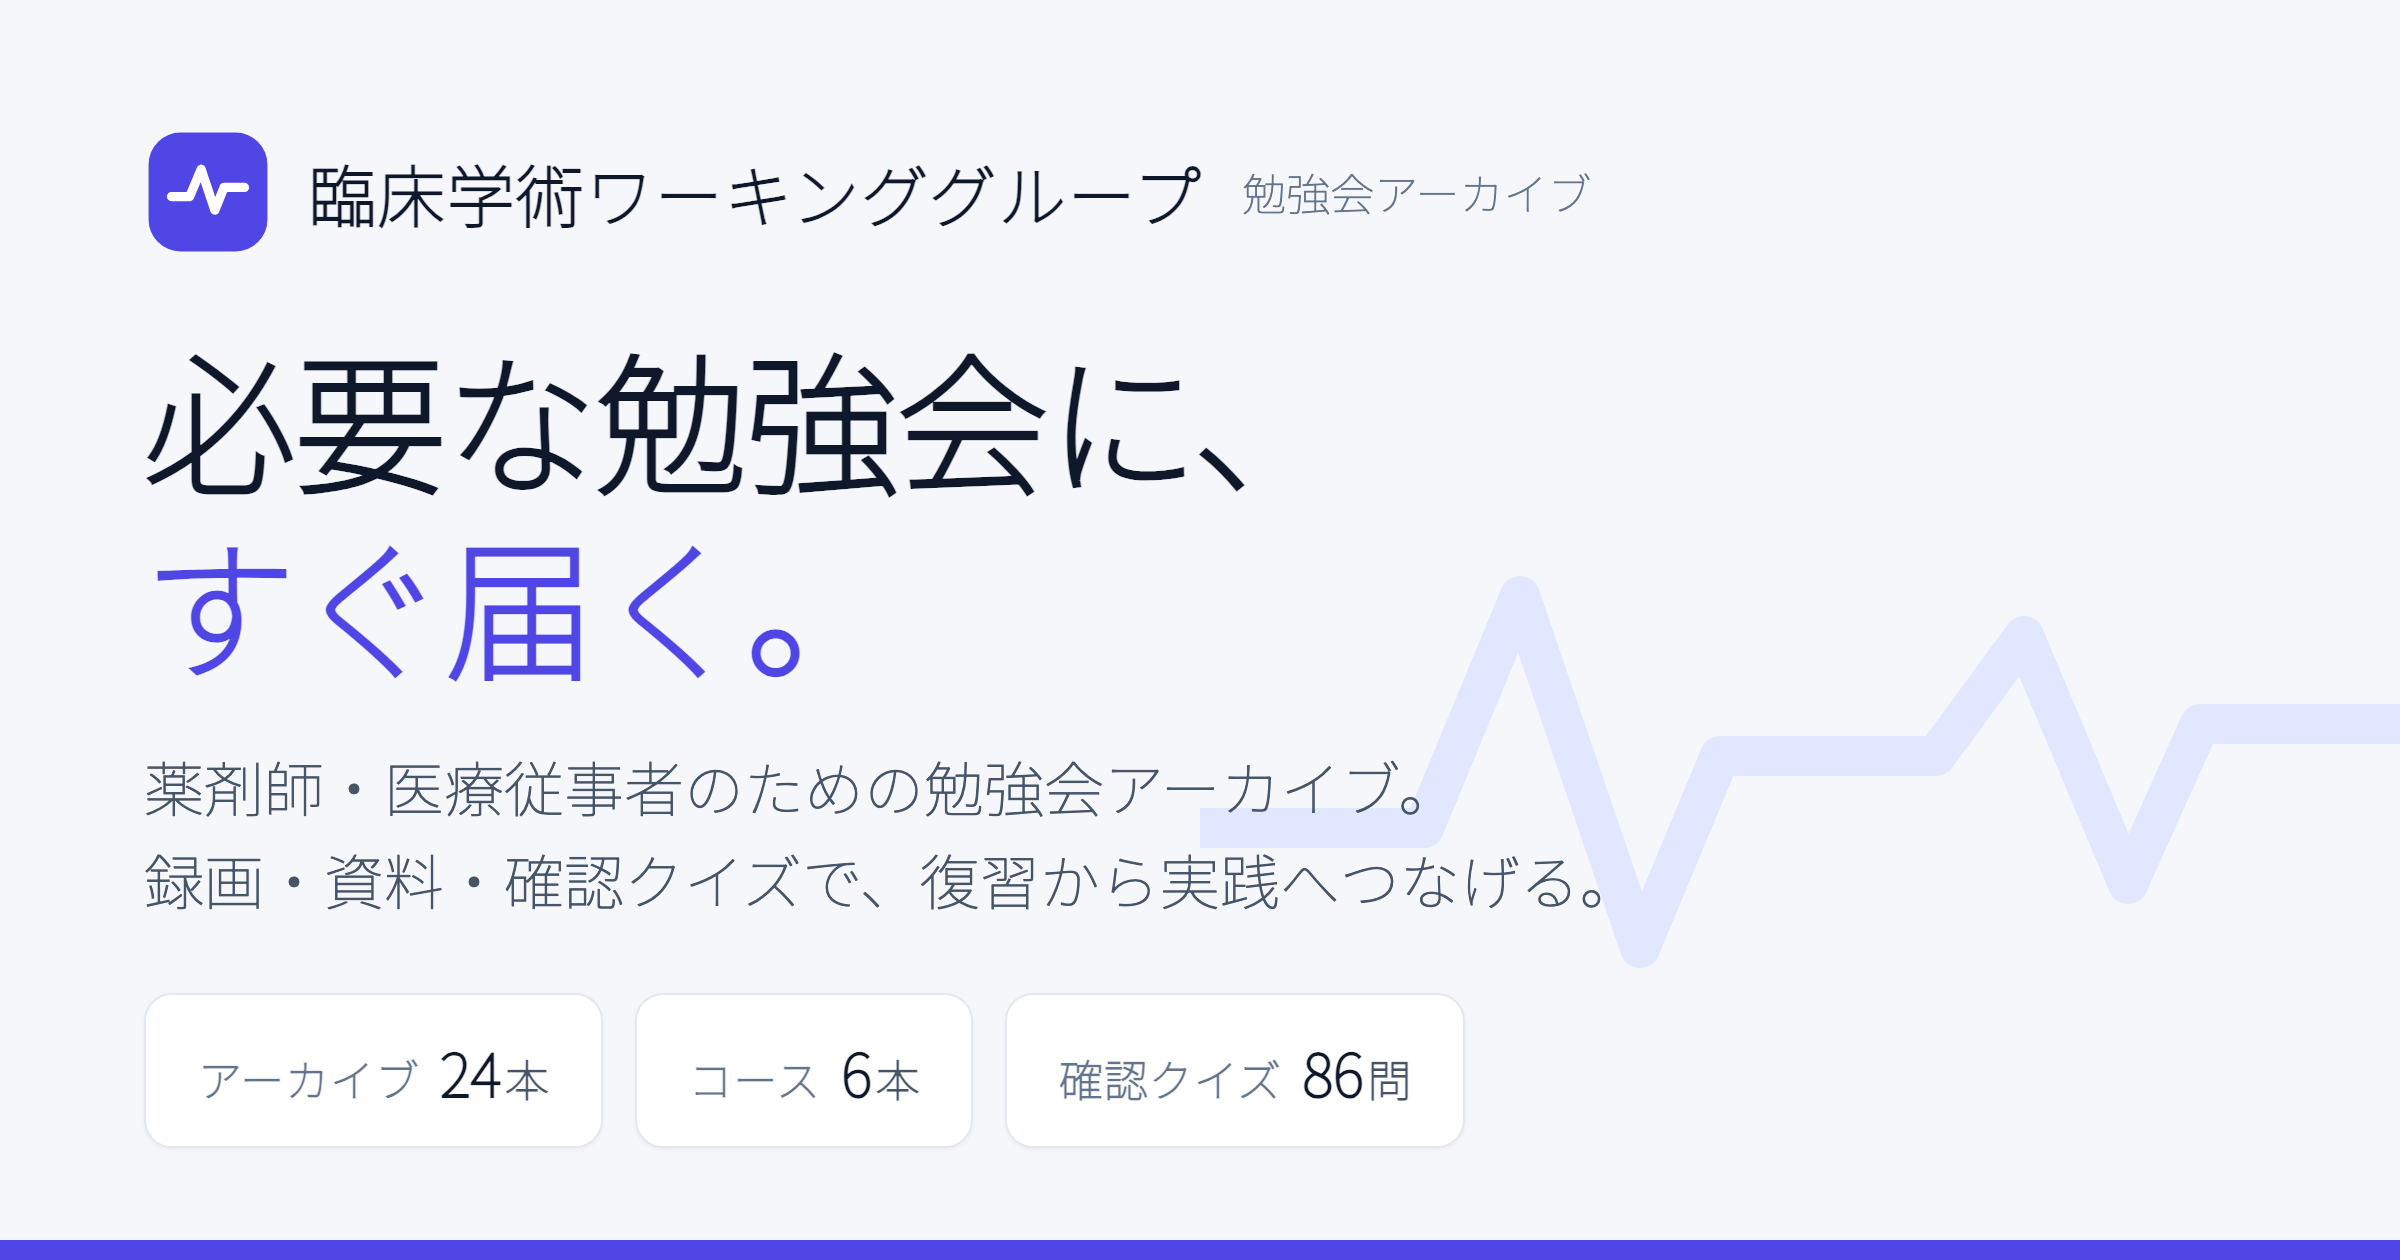
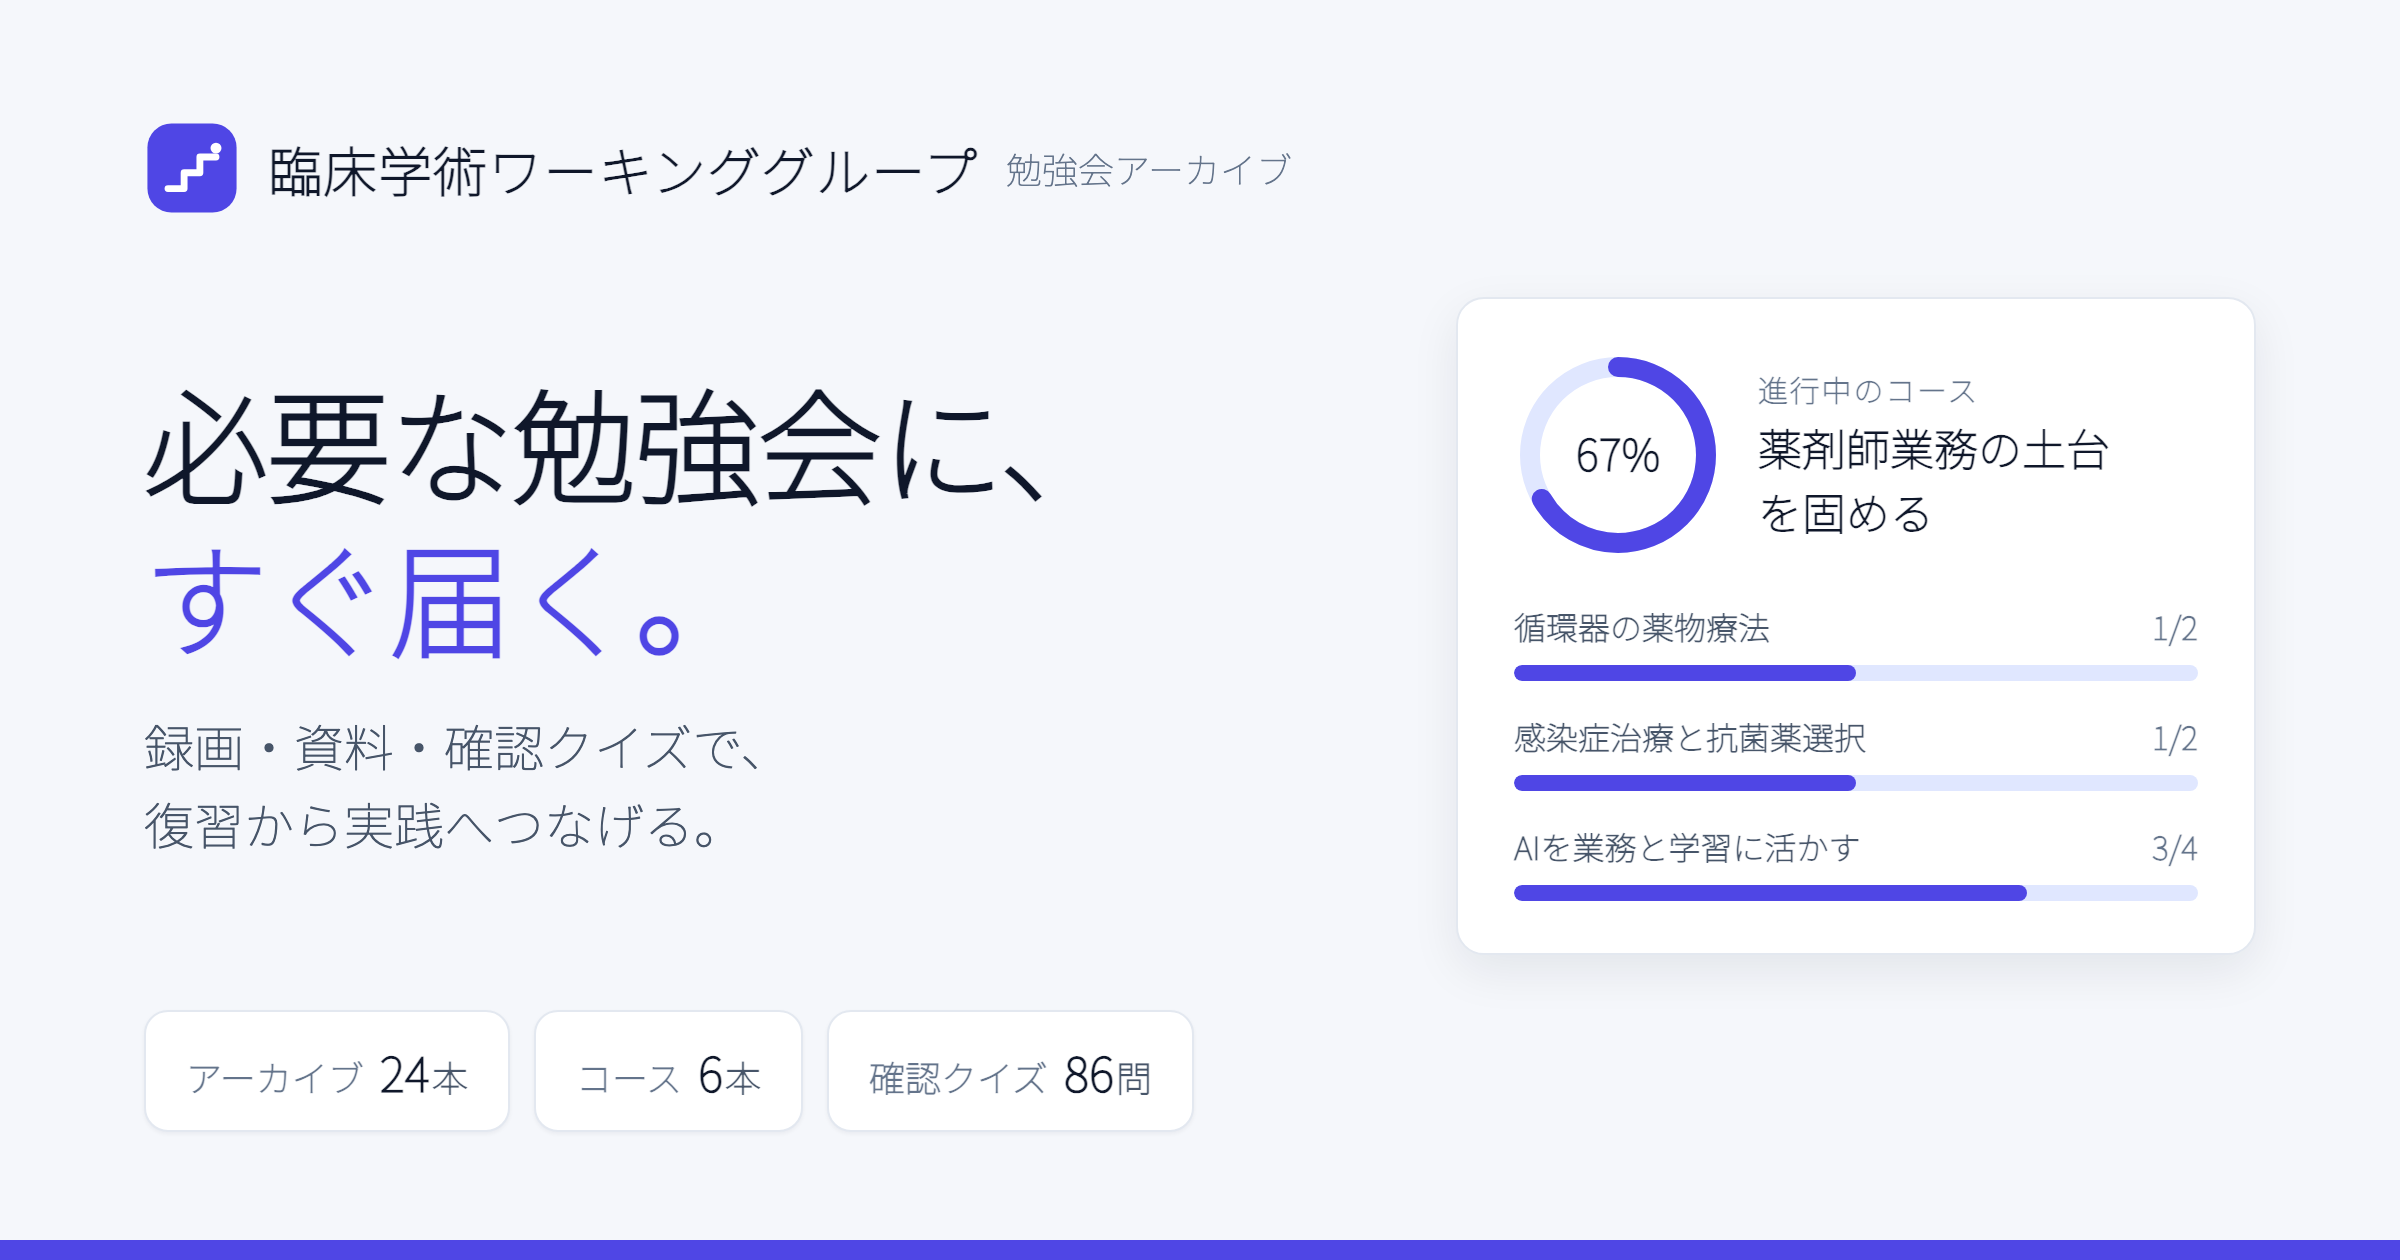
Rebuild the OGP art on the course-progress dashboard motif

diff --git a/design-system/assets/og-export.html b/design-system/assets/og-export.html
@@ -1,10 +1,10 @@
 <!-- @dsCard group="Assets" name="OGP書き出し原稿" subtitle="1200x630 フルブリード (ogp.png生成用)" width="1200" height="630" -->
 <!--
   使い方 (AI向け):
-  - ogp.png を再生成するための実寸原稿。templates/social.html のOGP型のフルブリード版 (角丸・影・外枠なし)。
+  - ogp.png を再生成するための実寸原稿。左に代表コピーとサイト全体数値、右にコース進捗ダッシュボードのモチーフ。
   - 書き出し: リポジトリルートで design-system/README.md「OGP画像の書き出し」のコマンドを実行する。
-  - 見出しはブランド代表コピー、下段はサイト全体数値のスタットチップ。
-    人名・絵文字・感嘆符・誇大表現を入れない。パルス波形マーク (foundations/brand.html が正) を改変せず使う。
+  - 人名・絵文字・感嘆符・誇大表現を入れない。学びの階段マーク (foundations/brand.html が正) を改変せず使う。
+  - 右カードのコース名・進捗値は実データ (mockups/DESIGN_BRIEF.md) 由来。変更時も実在データから採る。
 -->
 <!DOCTYPE html>
 <html lang="ja">
@@ -24,71 +24,89 @@
   body { font-family: var(--font-sans); }
   .og {
     position: relative; width: 1200px; height: 630px; overflow: hidden;
-    display: flex; flex-direction: column; justify-content: space-between;
-    padding: 64px 72px 56px; background: var(--bg);
+    display: flex; align-items: stretch; gap: 48px;
+    padding: 60px 72px 64px; background: var(--bg);
   }
-  /* 装飾: 右下の大きなパルス波形 (トラック色) */
-  .og-wave {
-    position: absolute; right: -40px; bottom: 88px; width: 640px; height: 320px;
-  }
-  .og-brand { position: relative; display: flex; align-items: center; gap: 18px; }
+  .og-left { display: flex; flex-direction: column; justify-content: space-between; flex: 1 1 auto; }
+  .og-brand { display: flex; align-items: center; gap: 14px; }
   .og-brand svg { display: block; }
-  .og-brand-name { color: var(--ink); font-size: 34px; font-weight: 700; letter-spacing: 0.02em; }
-  .og-brand-sub { margin-left: 2px; color: var(--muted); font-size: 22px; font-weight: 500; }
-  .og-main { position: relative; }
-  .og-title {
-    color: var(--ink); font-size: 76px; font-weight: 700;
-    letter-spacing: -0.01em; line-height: 1.22;
-  }
+  .og-brand-name { color: var(--ink); font-size: 27px; font-weight: 700; letter-spacing: 0.02em; }
+  .og-brand-sub { color: var(--muted); font-size: 18px; font-weight: 500; }
+  .og-title { color: var(--ink); font-size: 62px; font-weight: 700; letter-spacing: -0.01em; line-height: 1.24; }
   .og-title em { font-style: normal; color: var(--primary); }
-  .og-lead {
-    margin-top: 22px;
-    color: var(--ink-2); font-size: 30px; font-weight: 500; line-height: 1.55;
-  }
-  .og-foot { position: relative; display: flex; align-items: center; gap: 16px; }
+  .og-lead { margin-top: 18px; color: var(--ink-2); font-size: 25px; font-weight: 500; line-height: 1.55; }
+  .og-foot { display: flex; align-items: center; gap: 12px; }
   .og-stat {
-    display: inline-flex; align-items: baseline; gap: 10px;
-    padding: 16px 26px; border: 1px solid var(--border); border-radius: 14px;
-    background: var(--surface); box-shadow: 0 1px 2px rgba(16, 24, 40, 0.05);
+    display: inline-flex; align-items: baseline; gap: 8px; padding: 12px 20px;
+    border: 1px solid var(--border); border-radius: 12px; background: var(--surface);
+    box-shadow: 0 1px 2px rgba(16, 24, 40, 0.05);
   }
-  .og-stat .label { color: var(--muted); font-size: 22px; font-weight: 600; letter-spacing: 0.02em; }
-  .og-stat .value {
-    color: var(--ink); font-size: 30px; font-weight: 700;
-    font-variant-numeric: tabular-nums; letter-spacing: -0.01em;
-  }
-  .og-stat .value small { margin-left: 2px; color: var(--ink-2); font-size: 22px; font-weight: 600; }
+  .og-stat .label { color: var(--muted); font-size: 18px; font-weight: 600; }
+  .og-stat .value { color: var(--ink); font-size: 24px; font-weight: 700; font-variant-numeric: tabular-nums; }
+  .og-stat .value small { margin-left: 1px; color: var(--ink-2); font-size: 18px; font-weight: 600; }
+  .og-right { flex: none; width: 400px; display: flex; align-items: center; justify-content: center; }
   .og-bar { position: absolute; left: 0; right: 0; bottom: 0; height: 10px; background: var(--primary); }
+
+  /* コース進捗ダッシュボードのモチーフ */
+  .dash {
+    width: 400px; padding: 26px 28px;
+    background: var(--surface); border: 1px solid var(--border); border-radius: 14px;
+    box-shadow: 0 8px 24px rgba(16, 24, 40, 0.08);
+  }
+  .dash-head { display: flex; align-items: center; gap: 18px; margin-bottom: 22px; }
+  .ring { flex: none; }
+  .ring .v { fill: var(--ink); font-size: 22px; font-weight: 700; font-family: var(--font-sans); }
+  .dash-head .cap .k { color: var(--muted); font-size: 15px; font-weight: 600; letter-spacing: 0.06em; }
+  .dash-head .cap .n { color: var(--ink); font-size: 22px; font-weight: 700; margin-top: 2px; }
+  .course { margin-top: 16px; }
+  .course .nm { display: flex; justify-content: space-between; color: var(--ink-2); font-size: 16px; font-weight: 600; }
+  .course .nm span:last-child { color: var(--muted); font-variant-numeric: tabular-nums; }
+  .course .bar { margin-top: 8px; height: 8px; border-radius: 4px; background: var(--track-primary); overflow: hidden; }
+  .course .bar i { display: block; height: 100%; border-radius: 4px; background: var(--primary); }
 </style>
 </head>
 <body>
 <div class="og">
-  <svg class="og-wave" viewBox="0 0 320 160" fill="none" aria-hidden="true">
-    <path d="M0 96h56l24-58 30 88 20-48h54l22-30 26 62 18-40h70"
-          stroke="var(--track-primary)" stroke-width="10"
-          stroke-linecap="round" stroke-linejoin="round"/>
-  </svg>
-
-  <div class="og-brand">
-    <svg width="64" height="64" viewBox="0 0 28 28" aria-hidden="true">
-      <rect x="1" y="1" width="26" height="26" rx="7" fill="var(--primary)"/>
-      <path d="M6 15h4l2.5-6 3 9 2-5h4.5" fill="none" stroke="var(--on-primary)"
-            stroke-width="2" stroke-linecap="round" stroke-linejoin="round"/>
-    </svg>
-    <span class="og-brand-name">臨床学術ワーキンググループ</span>
-    <span class="og-brand-sub">勉強会アーカイブ</span>
+  <div class="og-left">
+    <div class="og-brand">
+      <svg width="48" height="48" viewBox="0 0 28 28" aria-hidden="true">
+        <rect x="1" y="1" width="26" height="26" rx="7" fill="var(--primary)"/>
+        <path d="M7 20h4.7v-4.6h4.6v-4.6H21" fill="none" stroke="var(--on-primary)"
+              stroke-width="2" stroke-linecap="round" stroke-linejoin="round"/>
+        <circle cx="21" cy="8.2" r="1.6" fill="var(--on-primary)"/>
+      </svg>
+      <span class="og-brand-name">臨床学術ワーキンググループ</span>
+      <span class="og-brand-sub">勉強会アーカイブ</span>
+    </div>
+    <div>
+      <h1 class="og-title">必要な勉強会に、<br><em>すぐ届く。</em></h1>
+      <p class="og-lead">録画・資料・確認クイズで、<br>復習から実践へつなげる。</p>
+    </div>
+    <div class="og-foot">
+      <span class="og-stat"><span class="label">アーカイブ</span><span class="value">24<small>本</small></span></span>
+      <span class="og-stat"><span class="label">コース</span><span class="value">6<small>本</small></span></span>
+      <span class="og-stat"><span class="label">確認クイズ</span><span class="value">86<small>問</small></span></span>
+    </div>
   </div>
-
-  <div class="og-main">
-    <h1 class="og-title">必要な勉強会に、<br><em>すぐ届く。</em></h1>
-    <p class="og-lead">薬剤師・医療従事者のための勉強会アーカイブ。<br>録画・資料・確認クイズで、復習から実践へつなげる。</p>
+  <div class="og-right">
+    <div class="dash">
+      <div class="dash-head">
+        <svg class="ring" width="104" height="104" viewBox="0 0 104 104">
+          <circle cx="52" cy="52" r="44" fill="none" stroke="var(--track-primary)" stroke-width="10"/>
+          <circle cx="52" cy="52" r="44" fill="none" stroke="var(--primary)" stroke-width="10"
+                  stroke-linecap="round" stroke-dasharray="184 276" transform="rotate(-90 52 52)"/>
+          <text class="v" x="52" y="60" text-anchor="middle">67%</text>
+        </svg>
+        <div class="cap">
+          <div class="k">進行中のコース</div>
+          <div class="n">薬剤師業務の土台<br>を固める</div>
+        </div>
+      </div>
+      <div class="course"><div class="nm"><span>循環器の薬物療法</span><span>1/2</span></div><div class="bar"><i style="width:50%"></i></div></div>
+      <div class="course"><div class="nm"><span>感染症治療と抗菌薬選択</span><span>1/2</span></div><div class="bar"><i style="width:50%"></i></div></div>
+      <div class="course"><div class="nm"><span>AIを業務と学習に活かす</span><span>3/4</span></div><div class="bar"><i style="width:75%"></i></div></div>
+    </div>
   </div>
-
-  <div class="og-foot">
-    <span class="og-stat"><span class="label">アーカイブ</span><span class="value">24<small>本</small></span></span>
-    <span class="og-stat"><span class="label">コース</span><span class="value">6<small>本</small></span></span>
-    <span class="og-stat"><span class="label">確認クイズ</span><span class="value">86<small>問</small></span></span>
-  </div>
-
   <div class="og-bar"></div>
 </div>
 </body>
